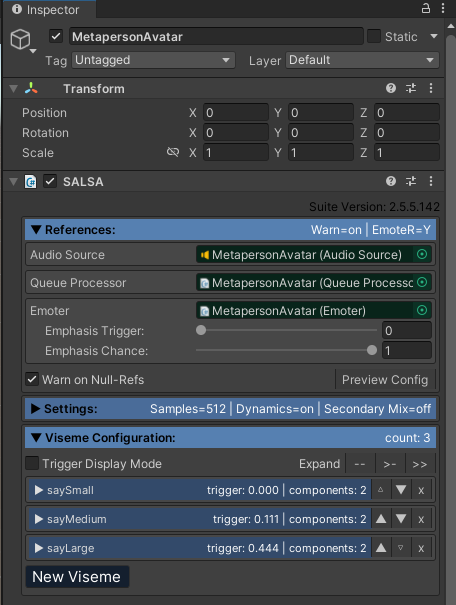
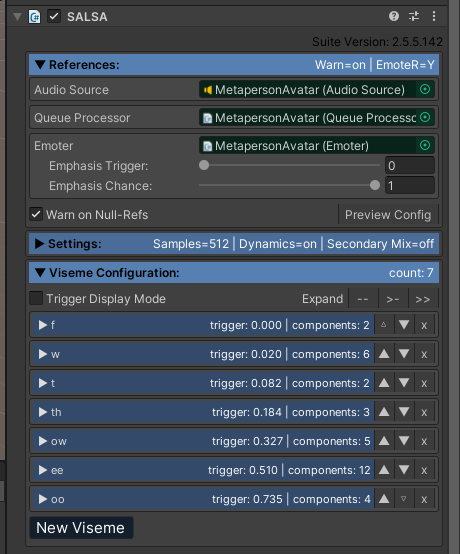
doc-upd

diff --git a/README.md b/README.md
@@ -7,17 +7,19 @@ This sample demonstrates how to use [MetaPerson](https://metaperson.avatarsdk.co
 ### Requirements
 - Unity 2021.3.19f1 or newer
 - [SALSA LipSync](https://assetstore.unity.com/packages/tools/animation/salsa-lipsync-suite-148442) package.
+- [OneClick Base](https://crazyminnowstudio.com/unity-3d/lip-sync-salsa/downloads/) package.
 
 ## Getting Started
 1. Clone this repository to your computer
 2. Open the project in Unity 2021.3.19f1 or newer.
 3. Import the [SALSA LipSync Suite](https://assetstore.unity.com/packages/tools/animation/salsa-lipsync-suite-148442) package.
-4. Open the `Assets/AvatarSDK/MetaPerson/SalsaSample/Scenes/MetapersonSalsaSampleScene.unity` scene.
-5. Run the scene. LipSync should start for the predefined avatar on the scene.
-6. Click on the "Load another avatar" button to see how the avatar can be replaced at runtime.
+4. Import the [OneClick Base](https://crazyminnowstudio.com/docs/salsa-lip-sync/addons/one-clicks/). See additional [documentation](https://crazyminnowstudio.com/docs/salsa-lip-sync/addons/one-clicks/) on OneClicks.
+5. Open the `Assets/AvatarSDK/MetaPerson/SalsaSample/Scenes/MetapersonSalsaSampleScene.unity` scene.
+6. Run the scene. LipSync should start for the predefined avatar on the scene.
+7. Click on the "Load another avatar" button to see how the avatar can be replaced at runtime.
 
 ## How does it work
-There is the predefined avatar on the scene that is animated with SALSA when you run the project. When you click the button, another avatar is downloaded. Then it replaces the original one. Audio and facial animation keep playing continuously for the new avatar. The MetapersonAvatar object placed on the scene contains the predefined MetaPerson avatar and has a number of attached components. SALSA component is responsible for LipSync configuration, Audio Source and Queue Processor are responsible for playing and processing the audio. EmoteR component is optional and provides additional avatar emote settings. MetaPerson Loader handles the process of downloading and displaying a new avatar on the scene. MetaPerson Material Generator is required to provide configured materials for the Metaperson skeletal mesh.
+There is the predefined avatar on the scene that is animated with SALSA when you run the project. This avatar was imported from an FBX file and its facial animation was configured with help of the OneClick add-on. When you run the application and click the button, another avatar is downloaded. Then it replaces the original one. Audio and facial animation keep playing continuously for the new avatar. The MetapersonAvatar object placed on the scene contains the predefined MetaPerson avatar and has a number of attached components. SALSA component is responsible for LipSync configuration, Audio Source and Queue Processor are responsible for playing and processing the audio. EmoteR component is optional and provides additional avatar emote settings. MetaPerson Loader handles the process of downloading and displaying a new avatar on the scene. MetaPerson Material Generator is required to provide configured materials for the Metaperson skeletal mesh.
 
 ## SALSA configuration
 SALSA component contains a set of the most important LipSync parameters.
@@ -25,46 +27,34 @@ SALSA component contains a set of the most important LipSync parameters.
 ![SALSA](./Documentation/Images/salsa_config.png "SALSA")
 
 The first part contains general LipSync parameters, the second one includes configuration for visemes. Current configuration provides links to parts of the initial avatar skeletal mesh and ids of the visemes that are used to play animations. It also contains limits for blendshape values and threshold parameters that control which viseme should be triggered for input values. See the SALSA LipSync [official documentation](https://crazyminnowstudio.com/docs/salsa-lip-sync/modules/further-reading/expression-components/) for more detailed information about settings.
+Two more components with self-descriptive names attached to the game object are [EmoteR](https://crazyminnowstudio.com/docs/salsa-lip-sync/modules/emoter/overview/) and [Eyes](https://crazyminnowstudio.com/docs/salsa-lip-sync/modules/eyes/overview/). Both provide configuration options for corresponding animations and are created automatically by OneClick.
+
+## OneClick configuration
+OneClicks is the equivalent of preset for MetaPerson avatars. With OneClick you can easily configure lipsync animation for your metaperson avatar, imported from FBX. To use OneClick, select the avatar game object.
+
+![Selected avatar object](./Documentation/Images/hierarchy.png "Selected avatar object")
+
+Now click the GameObject->Crazy Minnow Studio->One-clicks->Avatar SDK menu item. Your Avatar will be automatically configured for SALSA lipsync.
+
+![OneClick menu item](./Documentation/Images/oneclick.png "OneClick" )
 
 ## Runtime configuration
-When we change the avatar on the scene, the animation keeps playing without interruption. To achieve this, we provide SALSA component with references to the new mesh parts instead of the old ones, which are no longer valid as far as the previous avatar skeletal mesh is not on the scene. This is done in the OnButtonClick() method of the SalsaSampleSceneHandler class.
+When we change the avatar on the scene, the animation keeps playing without interruption. To achieve this, in SalsaSampleSceneHandler script we clear all the configurations:
 
 ```cs
-Dictionary<string, string> blendshapes = new Dictionary<string, string>() {
-    {"saySmall","DD" },
-    {"sayMedium","oh" },
-    {"sayLarge","aa" },
-};
-
-foreach (var viseme in salsa.visemes)
-{
-    string blenshapeName = blendshapes[viseme.expData.name];
-    if (viseme.expData.controllerVars.Count == 2)
-    {
-        viseme.expData.controllerVars[0].maxShape = 0.01f;
-        viseme.expData.controllerVars[0].smr = meshes["AvatarHead"];
-        viseme.expData.controllerVars[0].blendIndex = meshes["AvatarHead"].sharedMesh.GetBlendShapeIndex(blenshapeName);
-        viseme.expData.controllerVars[1].maxShape = 0.01f;
-        viseme.expData.controllerVars[1].smr = meshes["AvatarTeethLower"];
-        viseme.expData.controllerVars[1].blendIndex = meshes["AvatarTeethLower"].sharedMesh.GetBlendShapeIndex(blenshapeName);
-    }
-}
+ReleaseSalsa();
+ReleaseSalsaEyes();   
 ```
-Here we iterate through the list of all configured blendshapes and set corresponding mesh part references. We also set the blenshape indices. 
 
-The same operation is performed for the EmoteR object:
-
+after that we replace avatar on the scene:
 ```cs
-foreach(var emote in salsa.emoter.emotes)
-{
-    for(int i = 0; i < emote.expData.controllerVars.Count; i++)
-    {
-        var controllerVar = emote.expData.controllerVars[i];
-        controllerVar.smr = meshes["AvatarHead"];
-        controllerVar.maxShape = 0.008f;
-        controllerVar.blendIndex = meshes["AvatarHead"].sharedMesh.GetBlendShapeIndex(emote.expData.components[i].name);
-    }
-}
+MetaPersonUtils.ReplaceAvatar(loader.avatarObject, existingAvatar);
+```
+
+and then configure everything for new model with help of the OneClick classes:
+```cs
+OneClickAvatarSdk.Setup(dstObject);        
+OneClickAvatarSdkEyes.Setup(dstObject);
 ```
 
 Please see the official API documentation for [ExpressionComponents](https://crazyminnowstudio.com/docs/salsa-lip-sync/modules/further-reading/expression-components/#api-examples-for-expressioncomponents) and [EmoteR](https://crazyminnowstudio.com/docs/salsa-lip-sync/modules/emoter/api/) for more details.
